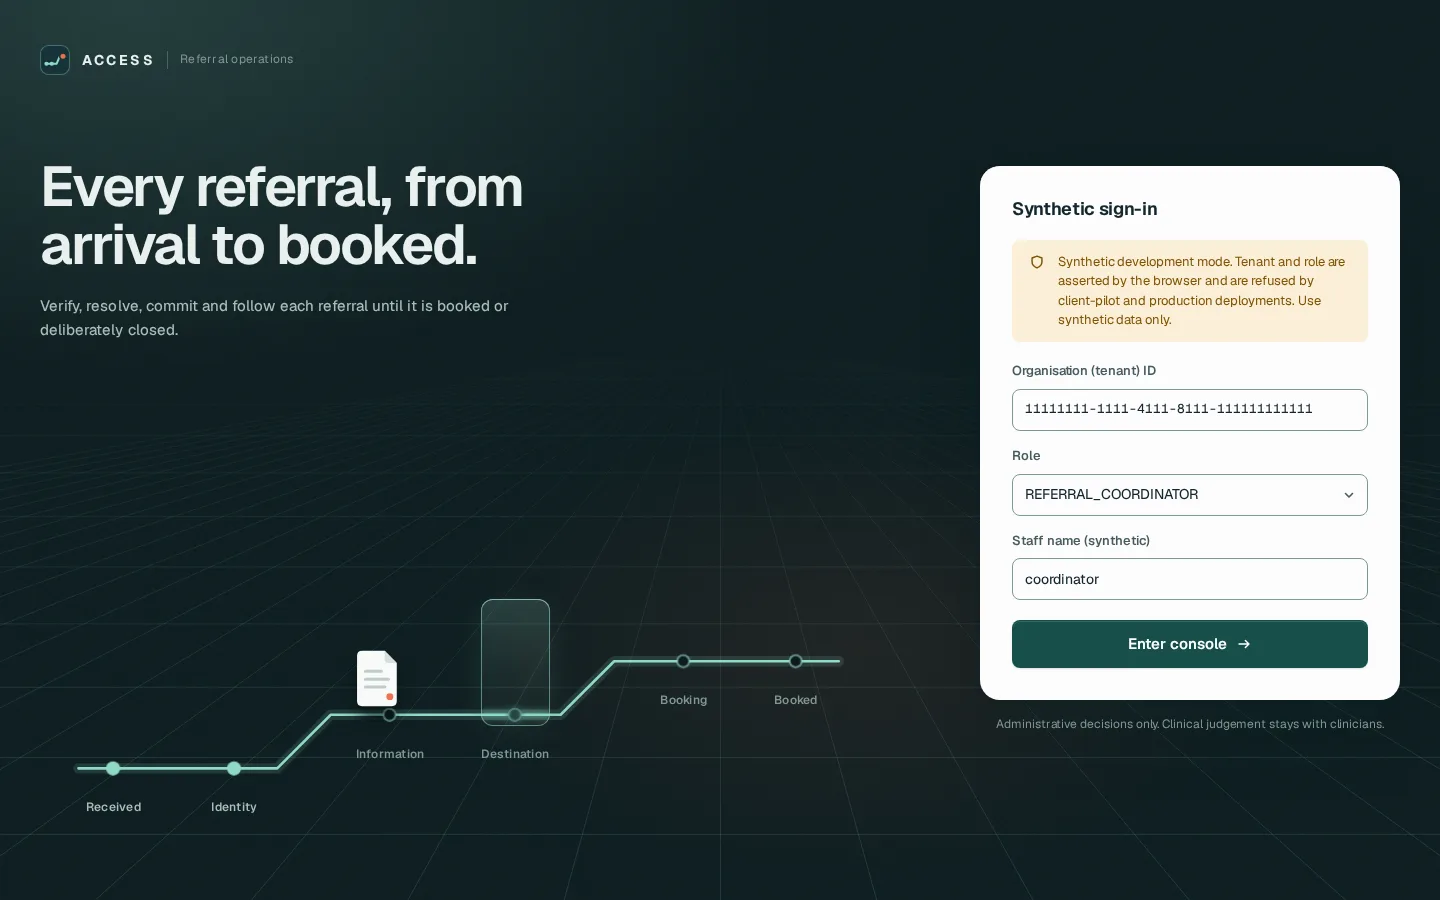
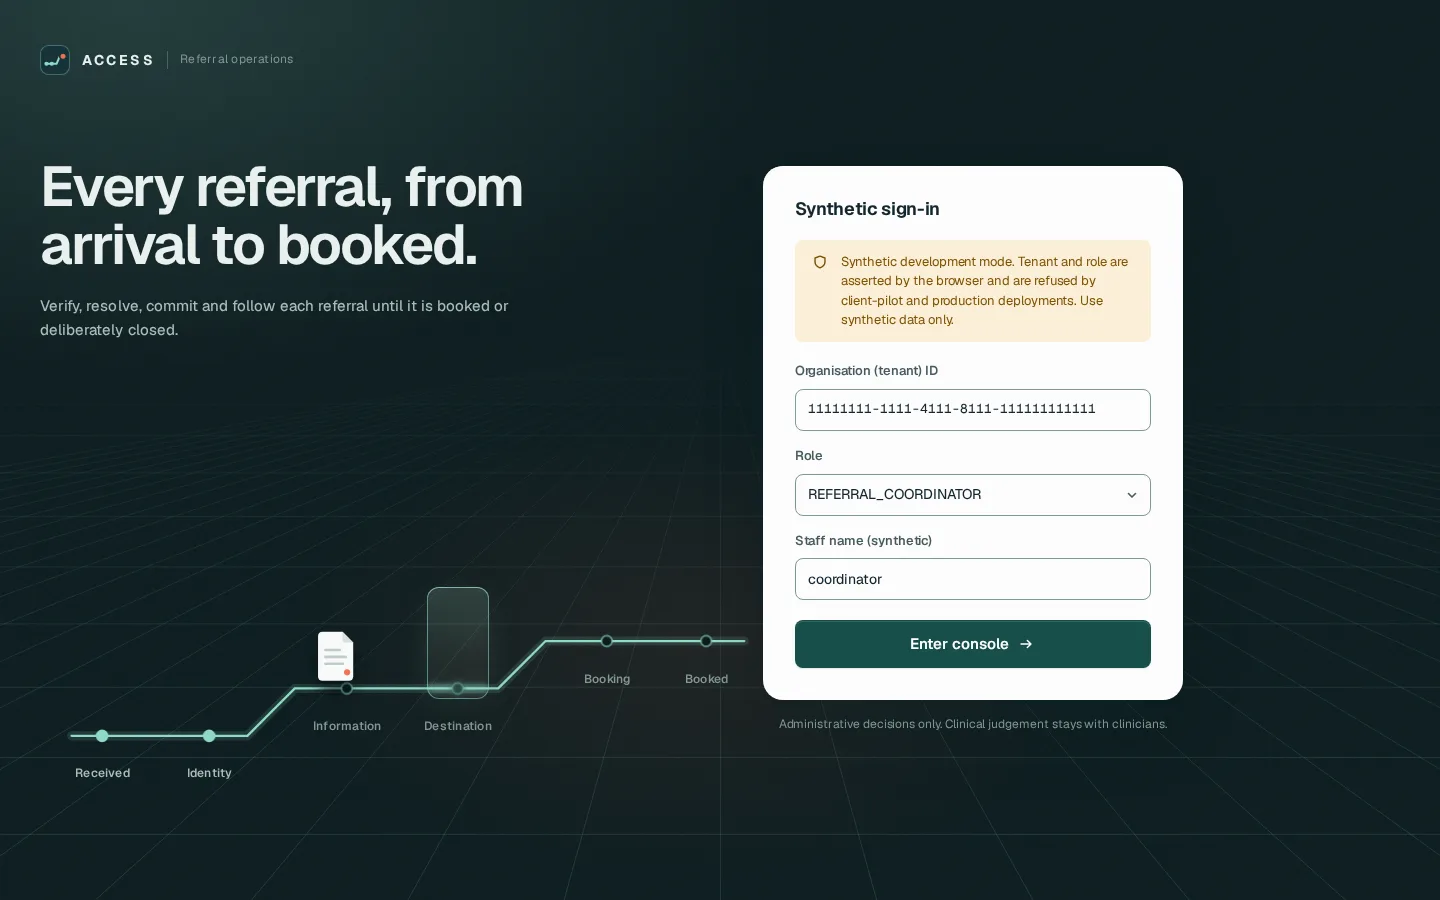
Move the login sign-in panel into the stage
On desktop the sign-in panel sat on the far-right edge, leaving a wide
dead zone between the headline, the Access Line and the form. The panel
now sits inside the composition: its centre is at 67.5% of the width at
1440px, 70% at 1280px and 65% on wide screens (about 74% at 1100px, where
the copy needs the room), and it never comes closer to the edge than the
gutter. It stays vertically centred and 420px wide.

The stage is sized from the panel's edge so Booked lands 3.5rem short of
it at every desktop width, and it is raised 5vh so the line's last
segment meets the panel's side instead of its corner. The warm end-of-line
light follows Booked. Below 1000px the stage keeps the three labels phones
already use (Received, Destination, Booked), because the smaller stage
would otherwise overlap Information and Destination. This also fixes
900–980px windows, where the resolved token used to sit under the panel.

CSS only. Authentication, markup, motion and reduced-motion behaviour
are unchanged; phones and tablets (≤ 899px) are pixel-identical.

Claude-Session: https://claude.ai/code/session_0141zgJedvKj7L5iMa6QSWPu

Changed region(s): [[0.2812, 0.1867, 1.0, 0.8089], [0.0312, 0.6844, 0.4062, 0.9022]]

diff --git a/apps/console/src/styles/login.css b/apps/console/src/styles/login.css
@@ -1,14 +1,26 @@
 /* Login: the one full brand stage. */
 .login {
+  /* The panel sits inside the stage, not on the browser edge: its centre is
+     at ~74% of the width on small laptops, 67.5% at 1440px and 65% on wide
+     screens, and it never comes closer to the edge than the gutter. */
+  --panel-w: 420px;
+  --panel-centre: clamp(
+    65vw,
+    47.4vw + 290px,
+    100vw - var(--gutter) - var(--panel-w) / 2
+  );
+  --panel-left: calc(var(--panel-centre) - var(--panel-w) / 2);
   position: relative;
   isolation: isolate;
   overflow: hidden;
   min-height: 100vh;
   min-height: 100svh;
   display: grid;
-  grid-template-columns: minmax(0, 1fr) minmax(340px, 420px);
+  grid-template-columns: minmax(0, 1fr) minmax(340px, var(--panel-w));
   column-gap: var(--s-8);
-  padding: clamp(1.5rem, 5vh, 3.5rem) var(--gutter);
+  padding: clamp(1.5rem, 5vh, 3.5rem)
+    calc(100vw - var(--panel-centre) - var(--panel-w) / 2)
+    clamp(1.5rem, 5vh, 3.5rem) var(--gutter);
   background: var(--c-night);
   color: var(--c-night-ink);
 }
@@ -33,6 +45,7 @@
   );
 }
 .scene__atmos {
+  --glow-x: 49%; /* warm light over Booked, just left of the panel */
   position: absolute;
   inset: -10%;
   background:
@@ -42,7 +55,7 @@
       transparent 70%
     ),
     radial-gradient(
-      34% 30% at 58% 68%,
+      34% 30% at var(--glow-x) 68%,
       color-mix(in srgb, var(--c-accent-bright) 8%, transparent),
       transparent 72%
     );
@@ -58,8 +71,14 @@
 .scene__box {
   position: absolute;
   left: calc(var(--gutter) - 1.5%);
-  bottom: 2vh;
-  width: min(60vw, 1040px);
+  /* High enough that the line meets the panel's side, not its corner. */
+  bottom: 7vh;
+  /* Sized from the panel: Booked (x = 0.9) lands 3.5rem short of its edge, so
+     the line climbs to the form at every desktop width. */
+  width: min(
+    1100px,
+    calc((var(--panel-left) - 3.5rem - var(--gutter) + 1.5%) / 0.9)
+  );
   aspect-ratio: 5 / 3;
 }
 .scene__layer {
@@ -357,10 +376,12 @@
   text-align: center;
 }
 
-/* 13" laptops: tighter stage ------------------------------------------------- */
-@media (max-width: 1279px) {
-  .scene__box {
-    width: min(58vw, 760px);
+/* Narrow stages keep three labels: where the line starts, turns and ends. */
+@media (max-width: 999px) {
+  .scene__label--1,
+  .scene__label--2,
+  .scene__label--4 {
+    display: none;
   }
 }
 
@@ -407,12 +428,10 @@
     inset: 3.5rem -20% auto -20%;
     height: clamp(12rem, 58vw, 20rem);
   }
+  .scene__atmos {
+    --glow-x: 58%;
+  }
   .scene__label {
     font-size: var(--t-2xs);
-  }
-  .scene__label--1,
-  .scene__label--2,
-  .scene__label--4 {
-    display: none;
   }
 }

diff --git a/docs/design/console-redesign.md b/docs/design/console-redesign.md
@@ -77,7 +77,13 @@ routes are unchanged.
 | Focal      | One anonymous referral object (no text, no data)         | Travels the line once on load | Always on the path; its shadow is drawn in the mid plane at the same point |
 | Near       | The destination gate: a translucent frame at station 4   | Strongest (still ≤ 14px)      | The token passes behind it; it never covers labels or the form             |
 | Atmosphere | Light from upper left, grain                             | Slow, small                   | Separates planes; never washes out text                                    |
-| Type + UI  | Wordmark, headline, product boundary line, sign-in panel | Stable                        | Always above every plane; the panel overlaps the stage edge (depth cue)    |
+| Type + UI  | Wordmark, headline, product boundary line, sign-in panel | Stable                        | Always above every plane; the line ends just short of the panel            |
+
+On desktop the sign-in panel sits inside the stage rather than on the browser
+edge: its centre is at 65–70% of the width on wide screens (about 74% at
+1100px, where the copy needs the room), and the stage is sized from the
+panel's edge so Booked lands 3.5rem short of it and the line's last segment
+meets the panel's side.
 
 Opening: line drawn, token at Received. Midpoint: token passes behind the
 gate at Destination. Resolved: token rests at Booked, gate settled. On
